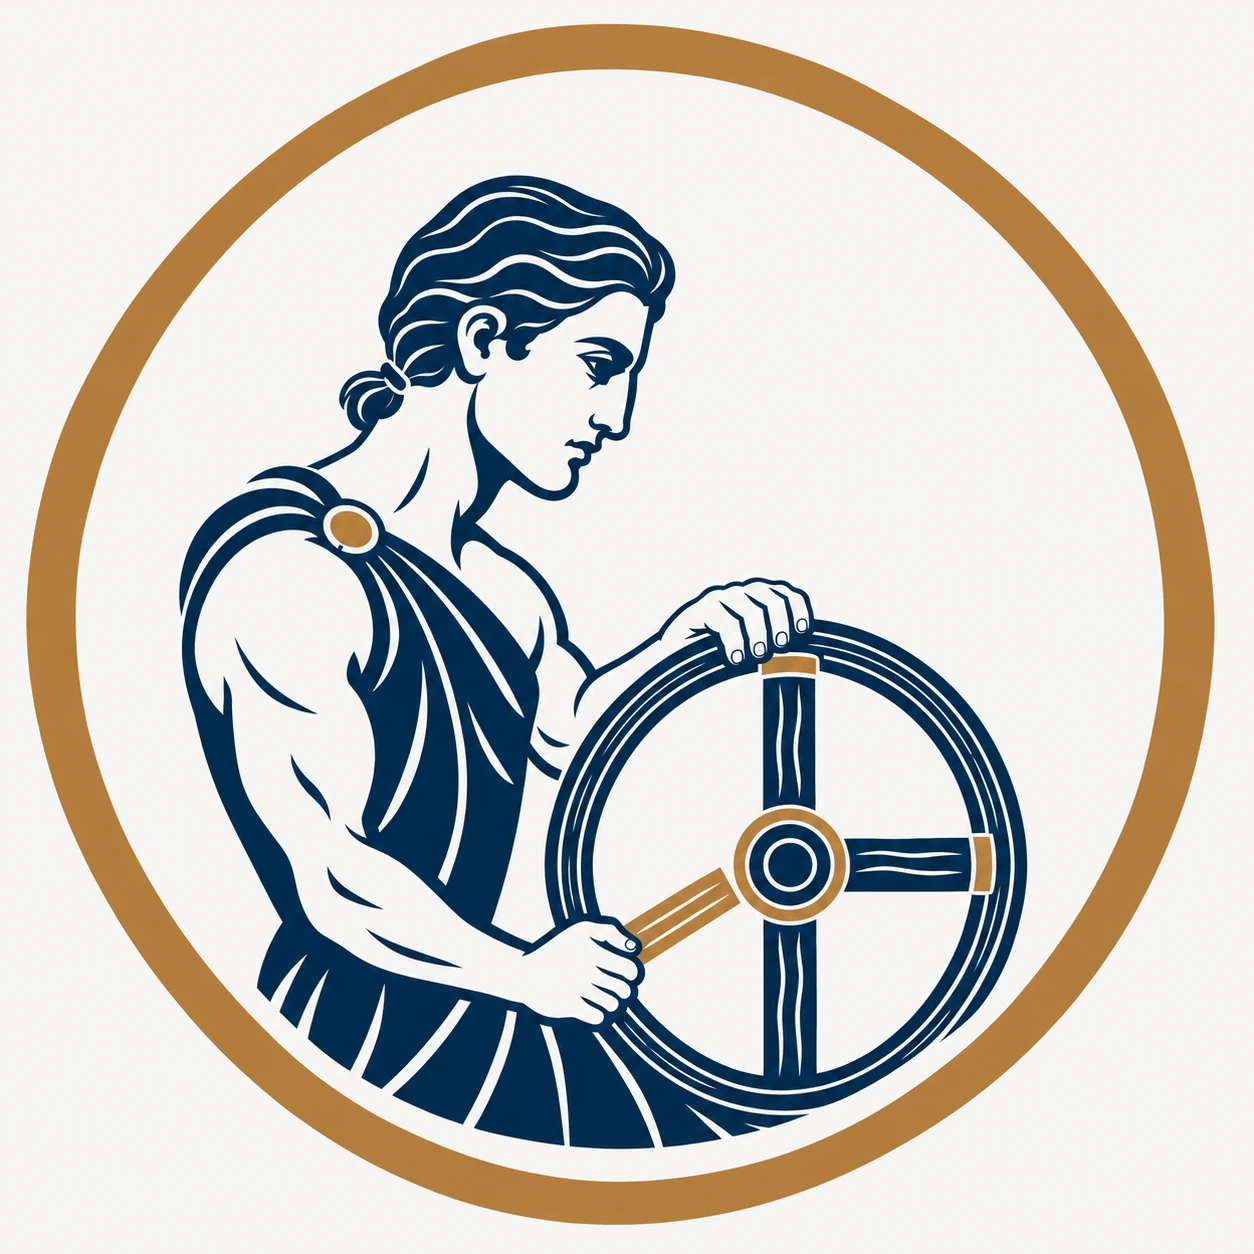
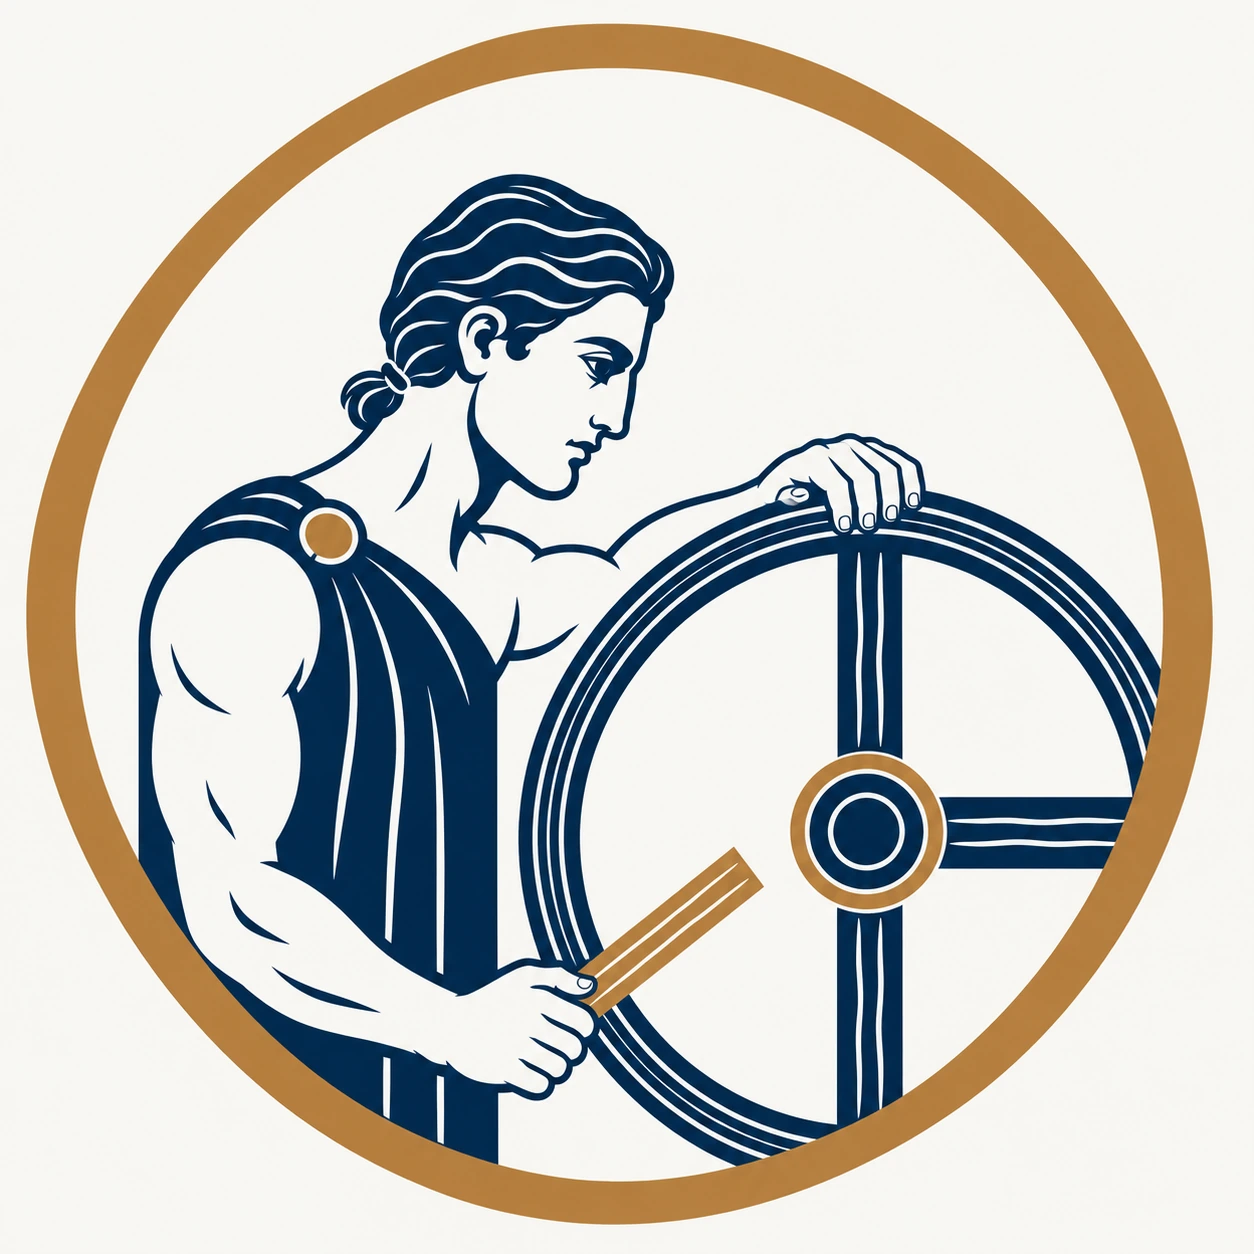
Redraw the Curano mark with a larger wheel and the spoke held apart
In the first version the man's garment narrowed at the waist, cloth
showed beneath the wheel, and the spoke was almost in place, so it was
hard to see that he was fitting it. Now the wheel is large and cut by
the frame, his body runs straight down, and he holds the new spoke
clearly in front of the gap. The bronze fittings at the spoke ends are
gone; they competed with the one new part.

The tracing script can now close a paper-colored part that the window
cuts with a contour along the window.

Claude-Session: https://claude.ai/code/session_01432t4ewimXSakDCgVZJRuM

Changed region(s): [[0.0933, 0.1244, 0.933, 0.933], [0.4665, 0.2799, 0.4976, 0.311]]

diff --git a/tools/trace-mark.py b/tools/trace-mark.py
@@ -5,6 +5,8 @@ usage: clean.py <image> <outdir> <Label> <factor> [dx=0] [dy=0]
 env:   CLEAN_EDIT=<python file>  run on the masks before smoothing (navy, accent, xx, yy, S)
        CLEAN_SIGMA (default 1.5)  smoothing in source pixels
        CLEAN_TOL   (default 1.6)  potrace curve tolerance in source pixels
+       CLEAN_ARCS=<from:to,...>   navy contour along the window between two angles (degrees, 0 = right,
+                                  90 = down), to close paper-colored parts that the window cuts
 """
 import sys, re, os, subprocess, numpy as np
 from PIL import Image
@@ -86,7 +88,11 @@ def svg(navyc, bronzec, disc=False):
     if disc: p.append('<circle cx="120" cy="120" r="117" fill="#FAF9F4"/>')
     p += [f'<clipPath id="{slug}-window"><circle cx="120" cy="120" r="97"/></clipPath>', f'<g clip-path="url(#{slug}-window)">']
     p += [f'<path fill="{bronzec}" fill-rule="evenodd" {T} d="{" ".join(ap)}"/>'] if ap else []
-    p += [f'<path fill="{navyc}" fill-rule="evenodd" {T} d="{" ".join(np_)}"/>', '</g>',
+    p += [f'<path fill="{navyc}" fill-rule="evenodd" {T} d="{" ".join(np_)}"/>']
+    for arc in filter(None, os.environ.get('CLEAN_ARCS', '').split(',')):
+        a0, a1 = (np.radians(float(v)) for v in arc.split(':')); R = 96.2
+        p.append(f'<path fill="none" stroke="{navyc}" stroke-width="1.6" stroke-linecap="round" d="M{120+R*np.cos(a0):.2f} {120+R*np.sin(a0):.2f}A{R} {R} 0 0 1 {120+R*np.cos(a1):.2f} {120+R*np.sin(a1):.2f}"/>')
+    p += ['</g>',
           f'<circle cx="120" cy="120" r="112" fill="none" stroke="{bronzec}" stroke-width="10"/>', '</svg>']
     return '\n'.join(p)
 for name, s in (('mark', svg('#0E2A4D', '#BC8A45')), ('mark-on-dark', svg('#0E2A4D', '#BC8A45', True)), ('mark-mono', svg('#0E2A4D', '#0E2A4D'))):

diff --git a/marks/curano/README.md b/marks/curano/README.md
@@ -15,18 +15,24 @@ wheel says the same thing with an object that is recognized at once.
 
 ## The mark
 
-A wheelwright as a half-figure in profile, steadying an ancient chariot wheel with one hand and
-fitting a new spoke into it with the other. The wheel has three spokes; where the fourth
-belongs there is a gap.
+A wheelwright as a half-figure in profile. One hand rests on the rim of a large ancient chariot
+wheel; the other holds a new spoke in front of it, pointed at the gap where a spoke is missing.
+The wheel is larger than the frame shows: the window cuts it on the right and at the bottom.
 
 - **Navy:** hair, garment, and the wheel.
 - **Paper color:** face, arms, and hands.
-- **Bronze:** the new spoke in his hand. The hub ring, the fittings at the ends of two spokes,
-  and his shoulder clasp are bronze as well, as metal parts.
+- **Bronze:** the new spoke in his hand, the ring around the hub, and his shoulder clasp.
 
-One decision should survive any redrawing: **the spoke is in his hand, not in the wheel, and
-the wheel shows the gap.** With the bronze spoke already in place he only held a finished
-wheel, and nobody could tell that he was doing anything.
+Three decisions should survive any redrawing:
+
+- **The spoke is in his hand, clearly apart from the wheel, and the wheel shows the gap.** With
+  the bronze spoke already in place he only held a finished wheel, and nobody could tell that
+  he was doing anything.
+- **The wheel is large and cut by the frame.** A wheel is understood from two thirds of it, and
+  a small complete wheel left the figure with cloth showing beneath it and little room for his
+  body.
+- **His body runs straight down to the cut.** In an earlier version the garment narrowed at the
+  waist and flared again, which made him look laced in.
 
 ## What was tried and dropped
 
@@ -39,8 +45,11 @@ wheel, and nobody could tell that he was doing anything.
   be seen.
 - **A wheelwright with curly hair:** the same scene, but a third curly-haired man beside
   Stentaro and Terminaro. The wavy hair tied back sets this figure apart.
+- **Bronze fittings at the ends of the spokes:** they sat on two of three spokes and took
+  attention from the one new part.
 
-## Placement
+## Placement and tracing
 
-Taken over as drawn, scaled to 95% so that the shoulder and the wheel stay clear of the paper
-ring.
+Taken over as drawn, scaled to 97% and moved 1 unit down. The drawing runs to its ring, so the
+window cuts body and wheel. Where it cuts the paper-colored forearm, a navy contour along the
+window closes the arm (`CLEAN_ARCS="111:152"` for [`tools/trace-mark.py`](../../tools/trace-mark.py)).

diff --git a/README.md b/README.md
@@ -117,7 +117,8 @@ python3 tools/trace-mark.py drawing.png marks/<product> <Name> 0.96
 
 The last number is the size relative to the drawing; a fifth and sixth move the motif right and
 down in frame units. It needs Python with numpy, scipy, and Pillow, and the `potrace` and `npx`
-commands. The drawing a mark was traced from lies beside it as `drawing.webp`. A file given in `CLEAN_EDIT` can change the color areas before tracing; Gramano uses
+commands. `CLEAN_ARCS` adds a contour along the window where it cuts a paper-colored part; Curano
+uses it. The drawing a mark was traced from lies beside it as `drawing.webp`. A file given in `CLEAN_EDIT` can change the color areas before tracing; Gramano uses
 one.
 
 ## History
